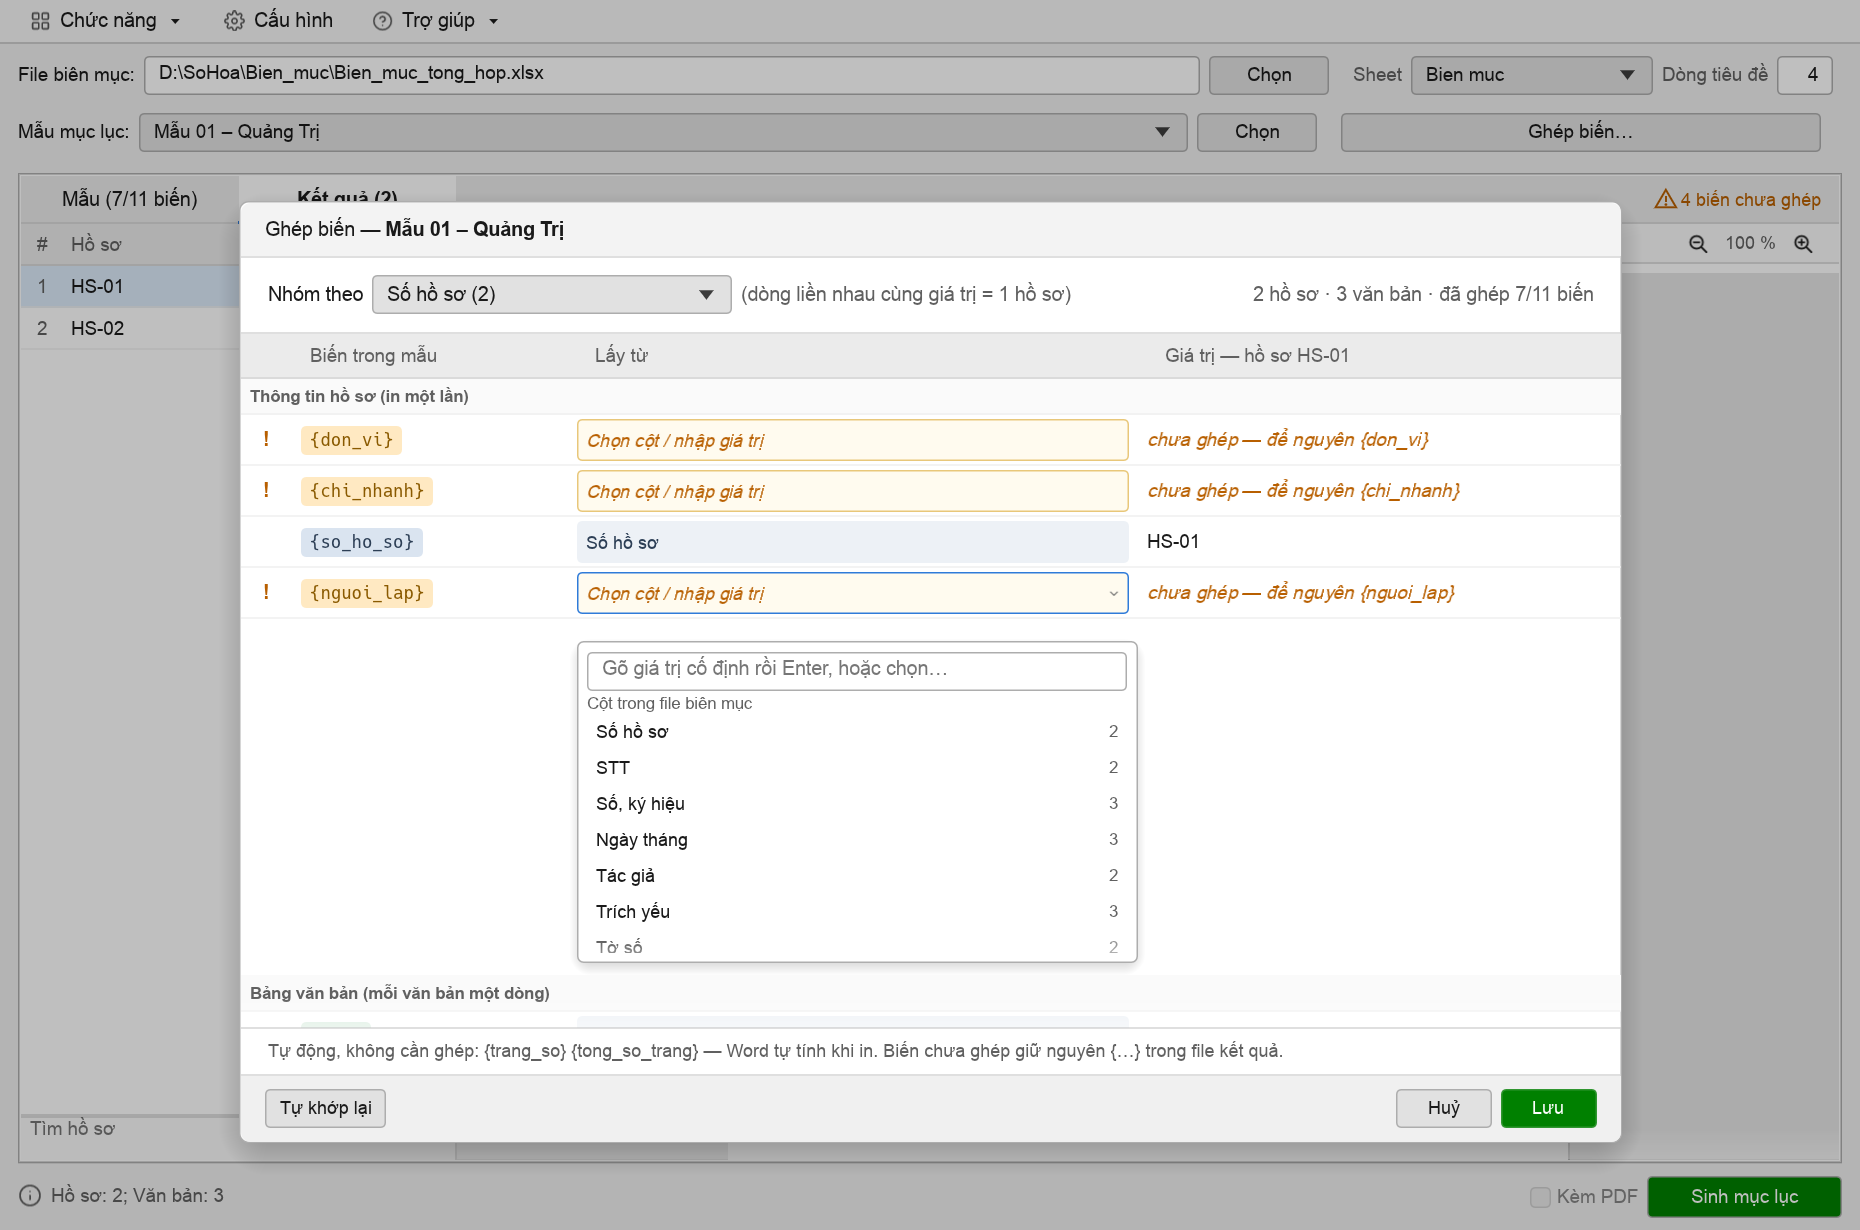
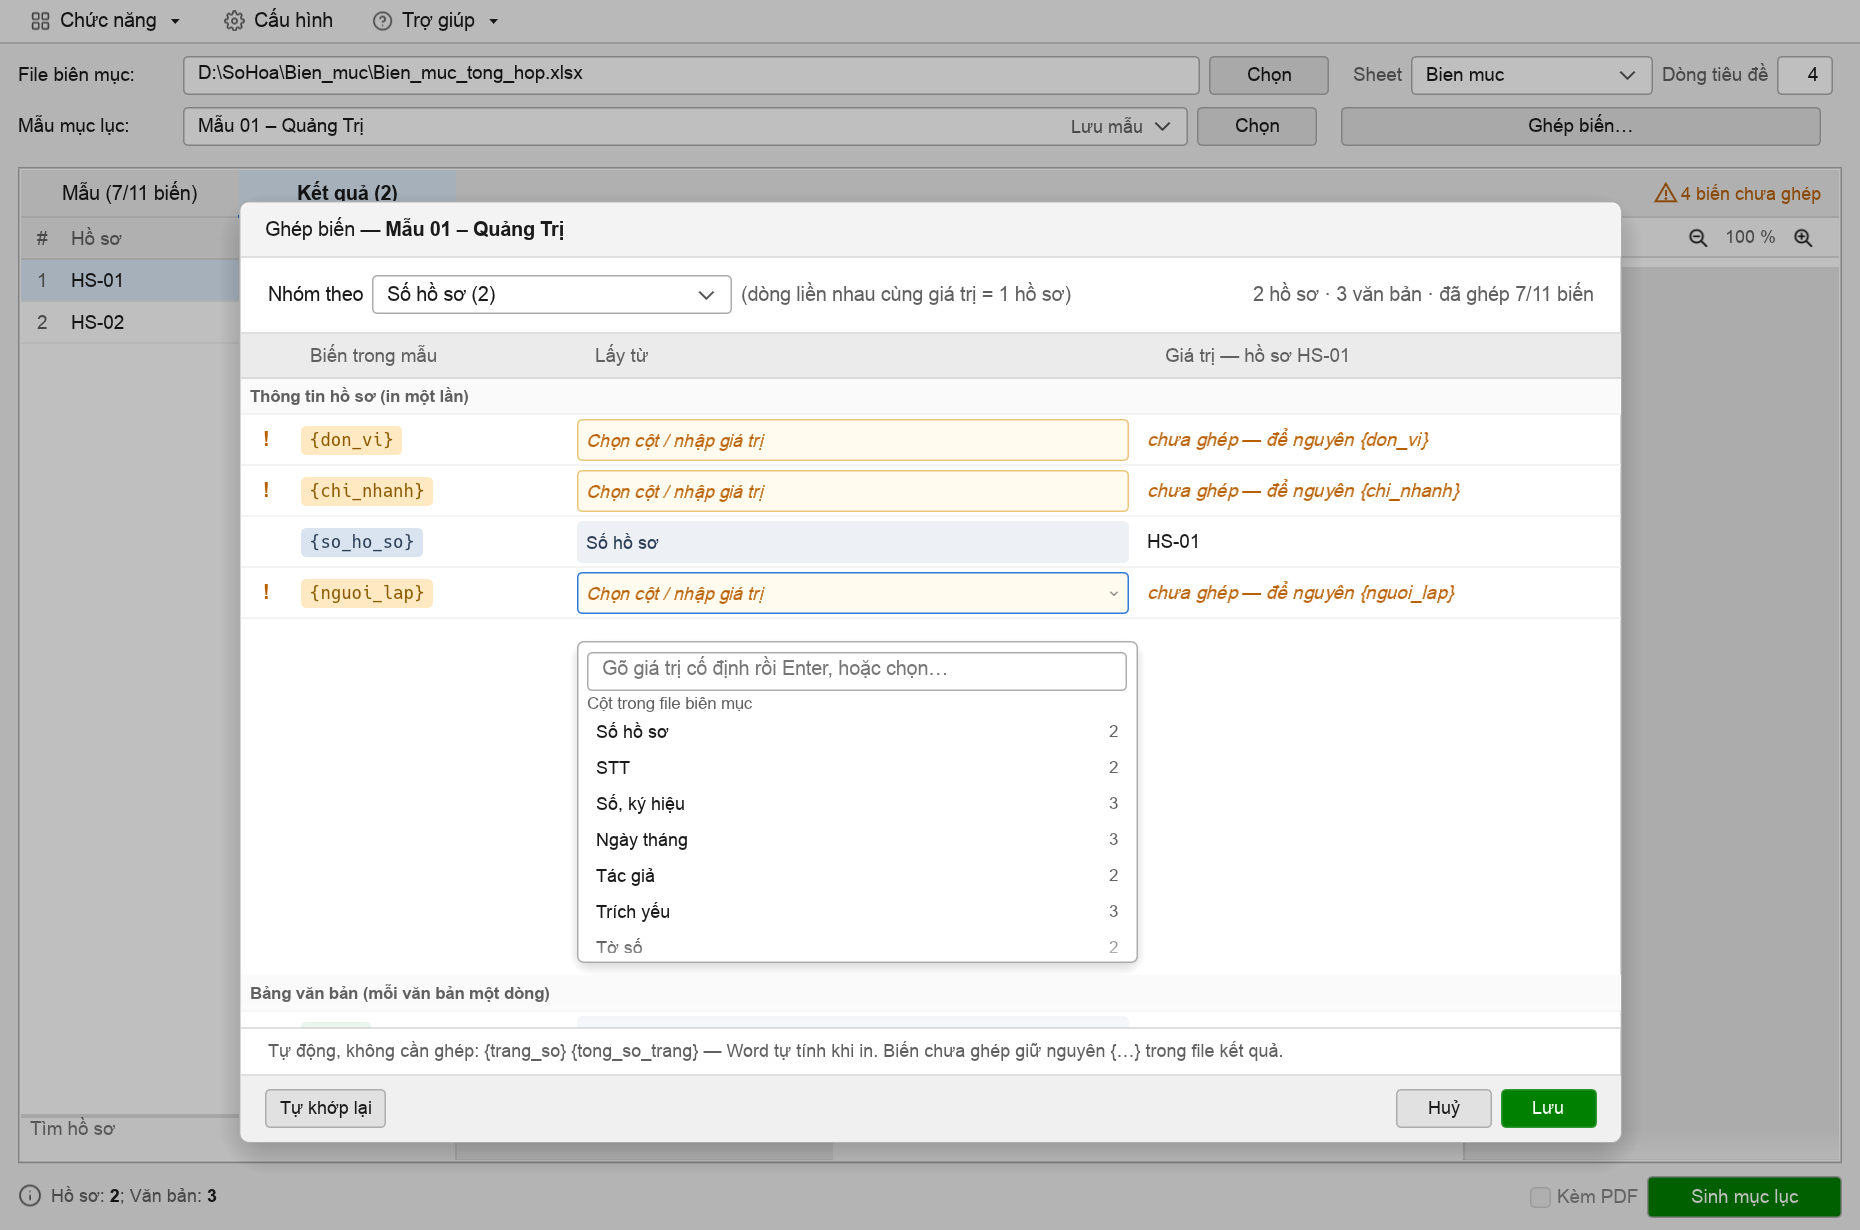
style(muc-luc): match approved prototype: white dropdowns with thin chevron, tab highlight, serif page with DOCX font sizes

diff --git a/dema4_rs/src/gui_muc_luc.rs b/dema4_rs/src/gui_muc_luc.rs
@@ -39,6 +39,26 @@ pub enum Tab {
     KetQua,
 }
 
+/// Ô chọn như prototype: nền `nen`, viền `vien`, bo 3 px; rê chuột viền đậm hơn.
+pub(super) fn kieu_o_chon(ui: &mut egui::Ui, nen: Color32, vien: Color32) {
+    let w = &mut ui.visuals_mut().widgets;
+    for v in [&mut w.inactive, &mut w.hovered, &mut w.active, &mut w.open] {
+        v.weak_bg_fill = nen;
+        v.bg_fill = nen;
+        v.corner_radius = egui::CornerRadius::same(3);
+        v.bg_stroke = Stroke::new(1.0, vien);
+        v.expansion = 0.0;
+    }
+    w.hovered.bg_stroke = Stroke::new(1.0, Color32::from_gray(0x8A));
+}
+
+/// Mũi tên ⌄ nét mảnh của ô chọn (thay tam giác đặc mặc định của egui).
+pub(super) fn mui_ten_chon(ui: &egui::Ui, r: Rect, _: &egui::style::WidgetVisuals, _: bool) {
+    let c = r.center();
+    let mau = if ui.is_enabled() { Color32::from_gray(0x55) } else { CHU_MO };
+    ui.painter().add(egui::Shape::line(vec![c + egui::vec2(-4.5, -2.0), c + egui::vec2(0.0, 2.5), c + egui::vec2(4.5, -2.0)], Stroke::new(1.3, mau)));
+}
+
 /// Mẫu đang dùng: "1".."4" = mẫu nhúng sẵn, còn lại = đường dẫn DOCX riêng.
 fn ten_mau(ma: &str) -> String {
     match ma.parse::<usize>() {
@@ -450,7 +470,11 @@ impl ManMucLuc {
     }
 
     fn nhan_co_dinh(ui: &mut egui::Ui, chu: &str) -> egui::Response {
-        ui.allocate_ui_with_layout(egui::vec2(RONG_NHAN, 26.0), Layout::left_to_right(Align::Center), |ui| ui.label(chu)).inner
+        ui.allocate_ui_with_layout(egui::vec2(RONG_NHAN, 26.0), Layout::left_to_right(Align::Center), |ui| {
+            ui.set_min_width(RONG_NHAN);
+            ui.label(chu)
+        })
+        .inner
     }
 
     fn hai_dong_dau_vao(&mut self, ui: &mut egui::Ui) {
@@ -474,7 +498,9 @@ impl ManMucLuc {
                 let hien = self.du_lieu.as_ref().map(|d| d.sheet.clone()).unwrap_or_default();
                 let mut chon = None;
                 ui.add_enabled_ui(!khoa && ds.len() > 1, |ui| {
+                    kieu_o_chon(ui, Color32::WHITE, VIEN);
                     egui::ComboBox::from_id_salt("ml_sheet")
+                        .icon(mui_ten_chon)
                         .width(ui.available_width() - 120.0)
                         .selected_text(if hien.is_empty() { "—".to_string() } else { hien.clone() })
                         .show_ui(ui, |ui| {
@@ -498,13 +524,14 @@ impl ManMucLuc {
                 }
             });
         });
-        ui.add_space(6.0);
+        ui.add_space(8.0 - ui.spacing().item_spacing.y);
         ui.horizontal(|ui| {
             let nhan_mau = Self::nhan_co_dinh(ui, "Mẫu mục lục:");
             let w = rong_o(ui);
             let mut chon = None;
             ui.add_enabled_ui(!khoa, |ui| {
-                let ph = egui::ComboBox::from_id_salt("ml_mau").width(w - 8.0).selected_text(ten_mau(&self.mau_chon)).show_ui(ui, |ui| {
+                kieu_o_chon(ui, Color32::WHITE, VIEN);
+                let ph = egui::ComboBox::from_id_salt("ml_mau").icon(mui_ten_chon).width(w - 8.0).selected_text(ten_mau(&self.mau_chon)).show_ui(ui, |ui| {
                     for (i, (ten, _)) in mau::MAU_CO_SAN.iter().enumerate() {
                         let ma = (i + 1).to_string();
                         if ui.selectable_label(self.mau_chon == ma, *ten).clicked() {
@@ -569,7 +596,7 @@ impl ManMucLuc {
             let ph = ui.interact(r, ui.scope_id().with(("ml_tab", i)), if co { Sense::click() } else { Sense::hover() });
             ph.widget_info(|| egui::WidgetInfo::selected(egui::Role::Button, co, chon, chu));
             if chon {
-                ui.painter().rect_filled(r, 0.0, Color32::WHITE);
+                ui.painter().rect_filled(r, 0.0, crate::gui::NEN_TAB_CHON);
                 ui.painter().hline(r.x_range(), r.bottom() - 1.0, Stroke::new(2.0, VIEN_TAB_CHON));
             } else if co && ph.hovered() {
                 ui.painter().rect_filled(r, 0.0, crate::gui::NUT_HOVER);
@@ -807,7 +834,7 @@ impl ManMucLuc {
                     let khoi = match (&self.mau, &self.du_lieu) {
                         (Some(m), Some(d)) => crate::muc_luc::ghep::ghep(&m.db, &d.bang, &self.kq.ho_so[self.hs], &self.rb).and_then(|b| mo_phong::mo_phong(&b)).unwrap_or_else(|e| {
                             // Không dựng được trang xem trước: hiện lý do trên trang thay vì trang trắng
-                            vec![Khoi::Doan(mo_phong::Doan { chu: format!("Không xem trước được hồ sơ này: {e}"), can: mo_phong::Can::Trai, dam: false })]
+                            vec![Khoi::Doan(mo_phong::Doan { chu: format!("Không xem trước được hồ sơ này: {e}"), can: mo_phong::Can::Trai, dam: false, co: None })]
                         }),
                         _ => Vec::new(),
                     };
@@ -845,16 +872,28 @@ impl ManMucLuc {
                     return;
                 }
             }
-            let chu = match &self.sinh {
-                Some(s) => Some(format!("Đang sinh {}/{} hồ sơ · {} · đã chạy {}", (s.i + 1).min(s.tong), s.tong, s.ten, crate::gui_tach::gio_phut_giay(s.bat_dau.elapsed()))),
-                None if self.co_du_lieu() => Some(format!("Hồ sơ: {}; Văn bản: {}", so_nguyen(self.kq.ho_so.len()), so_nguyen(self.so_van_ban()))),
-                None if self.doc_nen.is_some() => Some("Đang đọc file biên mục…".into()),
-                None => None,
-            };
-            if let Some(chu) = chu {
+            // Như prototype: nhãn xám, số đậm ("Hồ sơ: **22**; Văn bản: **326**")
+            let (thuong, dam) = (crate::gui_tach::chu_dong(CHU_PHU, false), crate::gui_tach::chu_dong(CHU, true));
+            let mut job = egui::text::LayoutJob::default();
+            match &self.sinh {
+                Some(s) => {
+                    job.append("Đang sinh ", 0.0, thuong.clone());
+                    job.append(&format!("{}/{}", (s.i + 1).min(s.tong), s.tong), 0.0, dam.clone());
+                    job.append(&format!(" hồ sơ · {} · đã chạy {}", s.ten, crate::gui_tach::gio_phut_giay(s.bat_dau.elapsed())), 0.0, thuong.clone());
+                }
+                None if self.co_du_lieu() => {
+                    for (i, (ten, so)) in [("Hồ sơ", self.kq.ho_so.len()), ("Văn bản", self.so_van_ban())].into_iter().enumerate() {
+                        job.append(&format!("{}{ten}: ", if i == 0 { "" } else { "; " }), 0.0, thuong.clone());
+                        job.append(&so_nguyen(so), 0.0, dam.clone());
+                    }
+                }
+                None if self.doc_nen.is_some() => job.append("Đang đọc file biên mục…", 0.0, thuong.clone()),
+                None => {}
+            }
+            if !job.text.is_empty() {
                 let (r, _) = ui.allocate_exact_size(egui::vec2(16.0, 16.0), Sense::hover());
                 crate::gui_tach::bieu_tuong::ve(ui.painter(), r, crate::gui_tach::bieu_tuong::BieuTuong::ThongTin, CHU_PHU);
-                ui.label(RichText::new(chu).color(CHU_PHU));
+                ui.label(job);
             }
             self.nut_day(ui, cfg);
         });

diff --git a/dema4_rs/src/gui_muc_luc/trang.rs b/dema4_rs/src/gui_muc_luc/trang.rs
@@ -8,12 +8,15 @@ use eframe::egui::{self, Align, Color32, Rect, Sense, Stroke};
 use crate::muc_luc::mo_phong::{Can, Doan, Khoi};
 use crate::muc_luc::token;
 
-/// Bề rộng trang ở 100 % (tỷ lệ A4 dọc).
-const RONG_TRANG: f32 = 560.0;
+/// Bề rộng trang ở 100 % (như prototype: 420 px, tỷ lệ A4 dọc); 1 pt của DOCX = 420 / 595 px.
+const RONG_TRANG: f32 = 420.0;
 const CAO_TRANG_MIN: f32 = RONG_TRANG * 1.414;
-const LE_TRANG: f32 = 40.0;
-const CO_CHU: f32 = 11.0;
-const LE_O: f32 = 4.0;
+const LE_TRANG: f32 = 32.0;
+const PX_MOI_PT: f32 = RONG_TRANG / 595.0;
+/// Cỡ chữ khi DOCX không khai (13 pt — cỡ thường dùng của văn bản hành chính).
+const CO_MAC_DINH_PT: f32 = 13.0;
+const CO_CHU: f32 = CO_MAC_DINH_PT * PX_MOI_PT;
+const LE_O: f32 = 3.0;
 /// Chip đang định vị (rê chuột ở sidebar hoặc trên trang): vàng.
 pub const NEN_SANG: Color32 = Color32::from_rgb(0xFF, 0xE0, 0x66);
 pub const CHU_SANG: Color32 = Color32::from_rgb(0x3A, 0x2E, 0x00);
@@ -50,8 +53,9 @@ struct ChuDaDan {
 }
 
 fn dan(ui: &egui::Ui, d: &Doan, rong: f32, kieu: &KieuVe) -> ChuDaDan {
-    let co = CO_CHU * kieu.zoom;
-    let font = if d.dam { egui::FontId::new(co, egui::FontFamily::Name(crate::gui::HO_FONT_DAM.into())) } else { egui::FontId::proportional(co) };
+    let co = d.co.unwrap_or(CO_MAC_DINH_PT) * PX_MOI_PT * kieu.zoom;
+    let ho = if d.dam { crate::gui::HO_FONT_TRANG_DAM } else { crate::gui::HO_FONT_TRANG };
+    let font = egui::FontId::new(co, egui::FontFamily::Name(ho.into()));
     let thuong = egui::TextFormat { font_id: font.clone(), color: Color32::from_gray(0x11), ..Default::default() };
     let mut job = egui::text::LayoutJob { halign: match d.can { Can::Trai => Align::LEFT, Can::Giua => Align::Center, Can::Phai => Align::RIGHT }, ..Default::default() };
     job.wrap.max_width = rong;
@@ -142,7 +146,7 @@ pub fn ve(ui: &mut egui::Ui, id: &str, khoi: &[Khoi], kieu: &KieuVe, canh_bao: O
                         let o: Vec<ChuDaDan> = h
                             .iter()
                             .map(|o| {
-                                let gop = Doan { chu: o.iter().map(|d| d.chu.as_str()).collect::<Vec<_>>().join("\n"), can: o.first().map_or(Can::Trai, |d| d.can), dam: !o.is_empty() && o.iter().all(|d| d.dam || d.chu.trim().is_empty()) };
+                                let gop = Doan { chu: o.iter().map(|d| d.chu.as_str()).collect::<Vec<_>>().join("\n"), can: o.first().map_or(Can::Trai, |d| d.can), dam: !o.is_empty() && o.iter().all(|d| d.dam || d.chu.trim().is_empty()), co: o.iter().find_map(|d| d.co) };
                                 dan(ui, &gop, rong_o.max(10.0), kieu)
                             })
                             .collect();

diff --git a/dema4_rs/src/gui.rs b/dema4_rs/src/gui.rs
@@ -334,6 +334,8 @@ impl eframe::App for UngDungChinh {
 
 /// Tên họ font đậm (egui không có chữ đậm sẵn, strong() chỉ đổi màu)
 pub(crate) const HO_FONT_DAM: &str = "dam";
+pub(crate) const HO_FONT_TRANG: &str = "trang";
+pub(crate) const HO_FONT_TRANG_DAM: &str = "trang_dam";
 
 /// In đậm thật bằng họ font đậm của hệ thống
 pub(crate) trait ChuDam {
@@ -377,7 +379,22 @@ fn cai_giao_dien(ctx: &egui::Context) {
         fonts.font_data.insert("he_thong_dam".into(), Arc::new(egui::FontData::from_owned(du_lieu)));
         dam.insert(0, "he_thong_dam".into());
     }
-    fonts.families.insert(egui::FontFamily::Name(HO_FONT_DAM.into()), dam);
+    fonts.families.insert(egui::FontFamily::Name(HO_FONT_DAM.into()), dam.clone());
+    // Họ font trang mô phỏng (Sinh mục lục): Times New Roman của hệ thống như văn bản Word; thiếu → font giao diện
+    const FONT_TRANG: [&str; 3] = [r"C:\Windows\Fonts\times.ttf", "/System/Library/Fonts/Supplemental/Times New Roman.ttf", "/usr/share/fonts/truetype/dejavu/DejaVuSerif.ttf"];
+    const FONT_TRANG_DAM: [&str; 3] = [r"C:\Windows\Fonts\timesbd.ttf", "/System/Library/Fonts/Supplemental/Times New Roman Bold.ttf", "/usr/share/fonts/truetype/dejavu/DejaVuSerif-Bold.ttf"];
+    let mut trang = fonts.families.get(&egui::FontFamily::Proportional).cloned().unwrap_or_default();
+    if let Some(du_lieu) = doc(&FONT_TRANG) {
+        fonts.font_data.insert("trang".into(), Arc::new(egui::FontData::from_owned(du_lieu)));
+        trang.insert(0, "trang".into());
+    }
+    let mut trang_dam = dam;
+    if let Some(du_lieu) = doc(&FONT_TRANG_DAM) {
+        fonts.font_data.insert("trang_dam".into(), Arc::new(egui::FontData::from_owned(du_lieu)));
+        trang_dam.insert(0, "trang_dam".into());
+    }
+    fonts.families.insert(egui::FontFamily::Name(HO_FONT_TRANG.into()), trang);
+    fonts.families.insert(egui::FontFamily::Name(HO_FONT_TRANG_DAM.into()), trang_dam);
     ctx.set_fonts(fonts);
 
     crate::gui_tach::bieu_tuong::dang_ky_svg(ctx);

diff --git a/dema4_rs/src/muc_luc/mo_phong.rs b/dema4_rs/src/muc_luc/mo_phong.rs
@@ -16,6 +16,8 @@ pub struct Doan {
     pub chu: String,
     pub can: Can,
     pub dam: bool,
+    /// Cỡ chữ (pt) khai trong DOCX (`w:sz` = nửa pt); không khai → `None` (dùng cỡ mặc định).
+    pub co: Option<f32>,
 }
 
 #[derive(Debug, Clone, PartialEq)]
@@ -38,7 +40,9 @@ fn doan(p: &The) -> Doan {
     p.hau_due("w:r", &mut runs);
     let run_chu = runs.into_iter().find(|r| !r.chu_w_t().trim().is_empty());
     let dam = dam_cua(ppr.and_then(|x| x.con_dau("w:rPr"))) || dam_cua(run_chu.and_then(|r| r.con_dau("w:rPr")));
-    Doan { chu: p.chu_w_t(), can, dam }
+    let co_cua = |rpr: Option<&The>| rpr.and_then(|r| r.con_dau("w:sz")).and_then(|s| s.thuoc_tinh("w:val")).and_then(|v| v.parse::<f32>().ok()).map(|n| n / 2.0);
+    let co = co_cua(run_chu.and_then(|r| r.con_dau("w:rPr"))).or_else(|| co_cua(ppr.and_then(|x| x.con_dau("w:rPr"))));
+    Doan { chu: p.chu_w_t(), can, dam, co }
 }
 
 /// Bảng có viền: `w:tblBorders` hoặc viền từng ô `w:tcBorders` có cạnh không phải nil/none, hoặc dùng kiểu bảng
@@ -149,6 +153,7 @@ mod tests {
         }
         let k = mo_phong(mau::MAU_CO_SAN[0].1).unwrap();
         assert!(k.iter().any(|k| matches!(k, Khoi::Doan(d) if d.can == Can::Giua && d.dam)), "có đoạn căn giữa, đậm (tiêu đề)");
+        assert!(k.iter().any(|k| matches!(k, Khoi::Doan(d) if d.co.is_some_and(|c| (8.0..=30.0).contains(&c)))), "đọc được cỡ chữ (pt)");
     }
 
     #[test]

diff --git a/dema4_rs/src/gui_muc_luc/bang_bien.rs b/dema4_rs/src/gui_muc_luc/bang_bien.rs
@@ -8,7 +8,7 @@ use crate::muc_luc::{Nguon, RangBuoc};
 
 pub const RONG_COT_BIEN: f32 = 128.0;
 const RONG_COT_CANH: f32 = 22.0;
-const CAO_DONG: f32 = 30.0;
+const CAO_DONG: f32 = 33.0;
 const CAO_NHOM: f32 = 24.0;
 pub const CAO_DAU: f32 = 27.0;
 const CAM: Color32 = Color32::from_rgb(0xB8, 0x5F, 0x00);
@@ -249,14 +249,10 @@ pub fn hang_nhom_theo(ui: &mut egui::Ui, cot: &[String], khac_nhau: &[usize], hi
             .inner;
         let hien = cot.iter().position(|c| c == hien_tai).map_or_else(|| hien_tai.to_string(), |i| ten(i, hien_tai));
         ui.scope(|ui| {
-            let w = &mut ui.visuals_mut().widgets;
-            for t in [&mut w.inactive, &mut w.hovered, &mut w.active, &mut w.open] {
-                t.weak_bg_fill = Color32::from_rgb(0xE1, 0xE8, 0xF0);
-                t.bg_fill = Color32::from_rgb(0xE1, 0xE8, 0xF0);
-            }
-            w.inactive.bg_stroke = Stroke::NONE;
+            super::kieu_o_chon(ui, Color32::from_rgb(0xE1, 0xE8, 0xF0), Color32::TRANSPARENT);
             let rong = (ui.available_width() - 6.0).max(40.0);
             egui::ComboBox::from_id_salt("ml_nhom_theo")
+                .icon(super::mui_ten_chon)
                 .width(rong)
                 .selected_text(RichText::new(format!("      {hien}")).size(12.0).color(Color32::from_rgb(0x2C, 0x3E, 0x55)))
                 .show_ui(ui, |ui| {

diff --git a/dema4_rs/src/gui_muc_luc/hop_ghep.rs b/dema4_rs/src/gui_muc_luc/hop_ghep.rs
@@ -47,7 +47,9 @@ impl ManMucLuc {
                 ui.horizontal(|ui| {
                     let nhan = ui.label("Nhóm theo");
                     let ten = |c: &str| format!("{c} ({})", d.bang.cot(c).and_then(|i| d.khac_nhau.get(i)).copied().unwrap_or(0));
+                    super::kieu_o_chon(ui, Color32::WHITE, crate::gui::VIEN);
                     egui::ComboBox::from_id_salt("ml_hop_nhom")
+                        .icon(super::mui_ten_chon)
                         .width(240.0)
                         .selected_text(ten(&self.rb.cot_nhom))
                         .show_ui(ui, |ui| {
